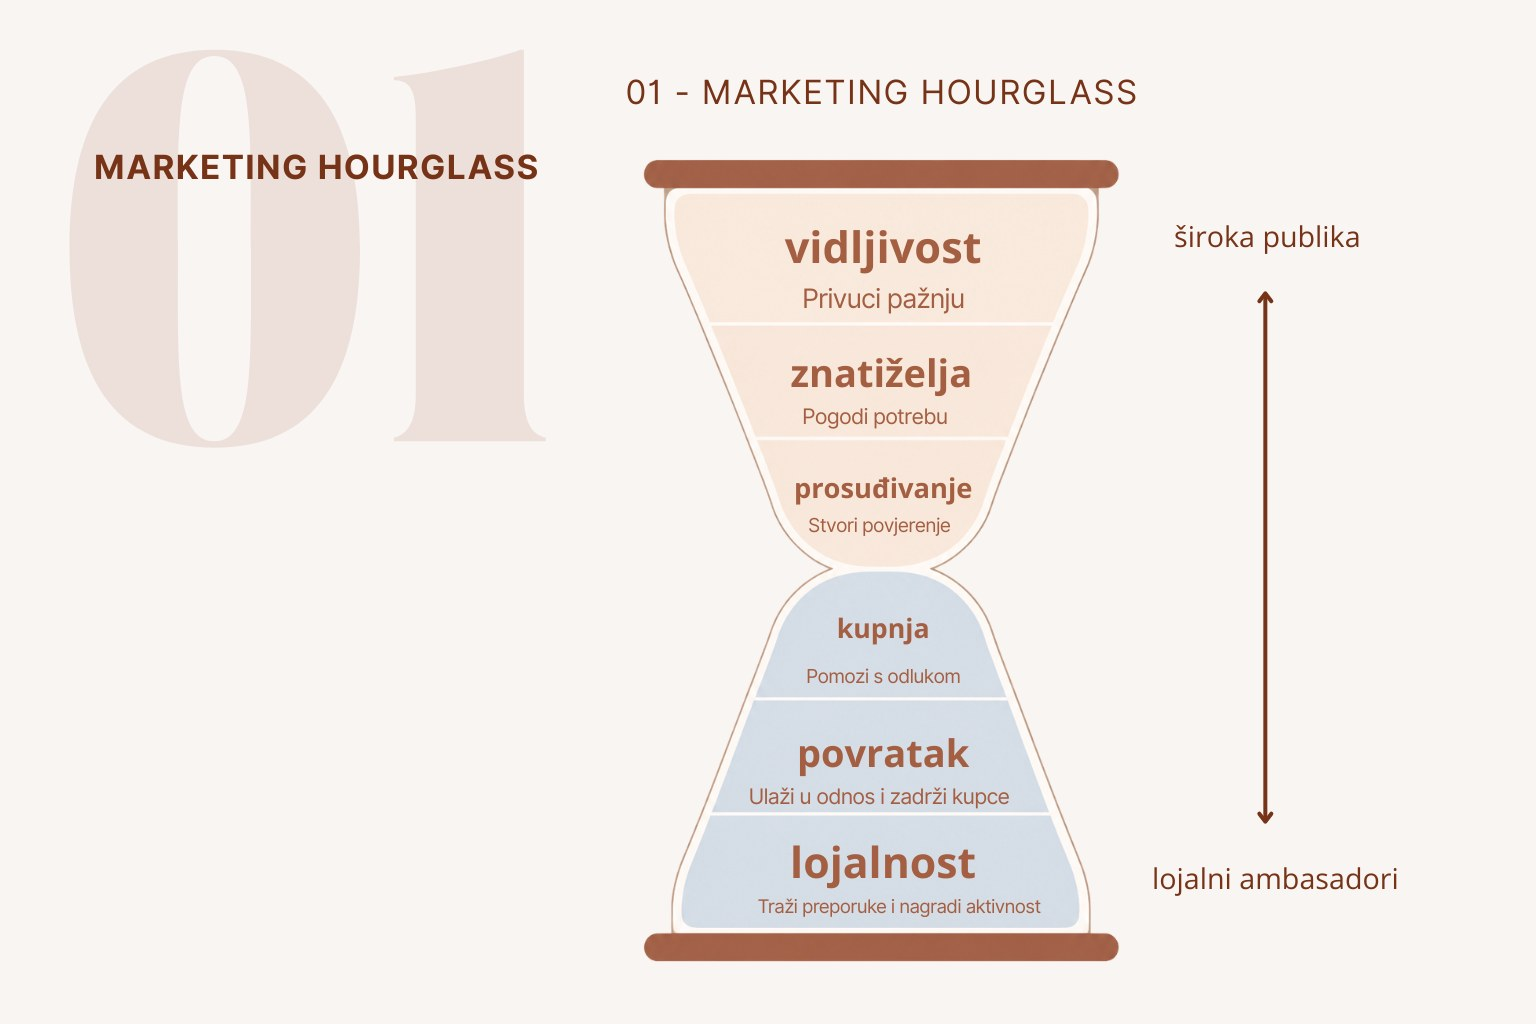
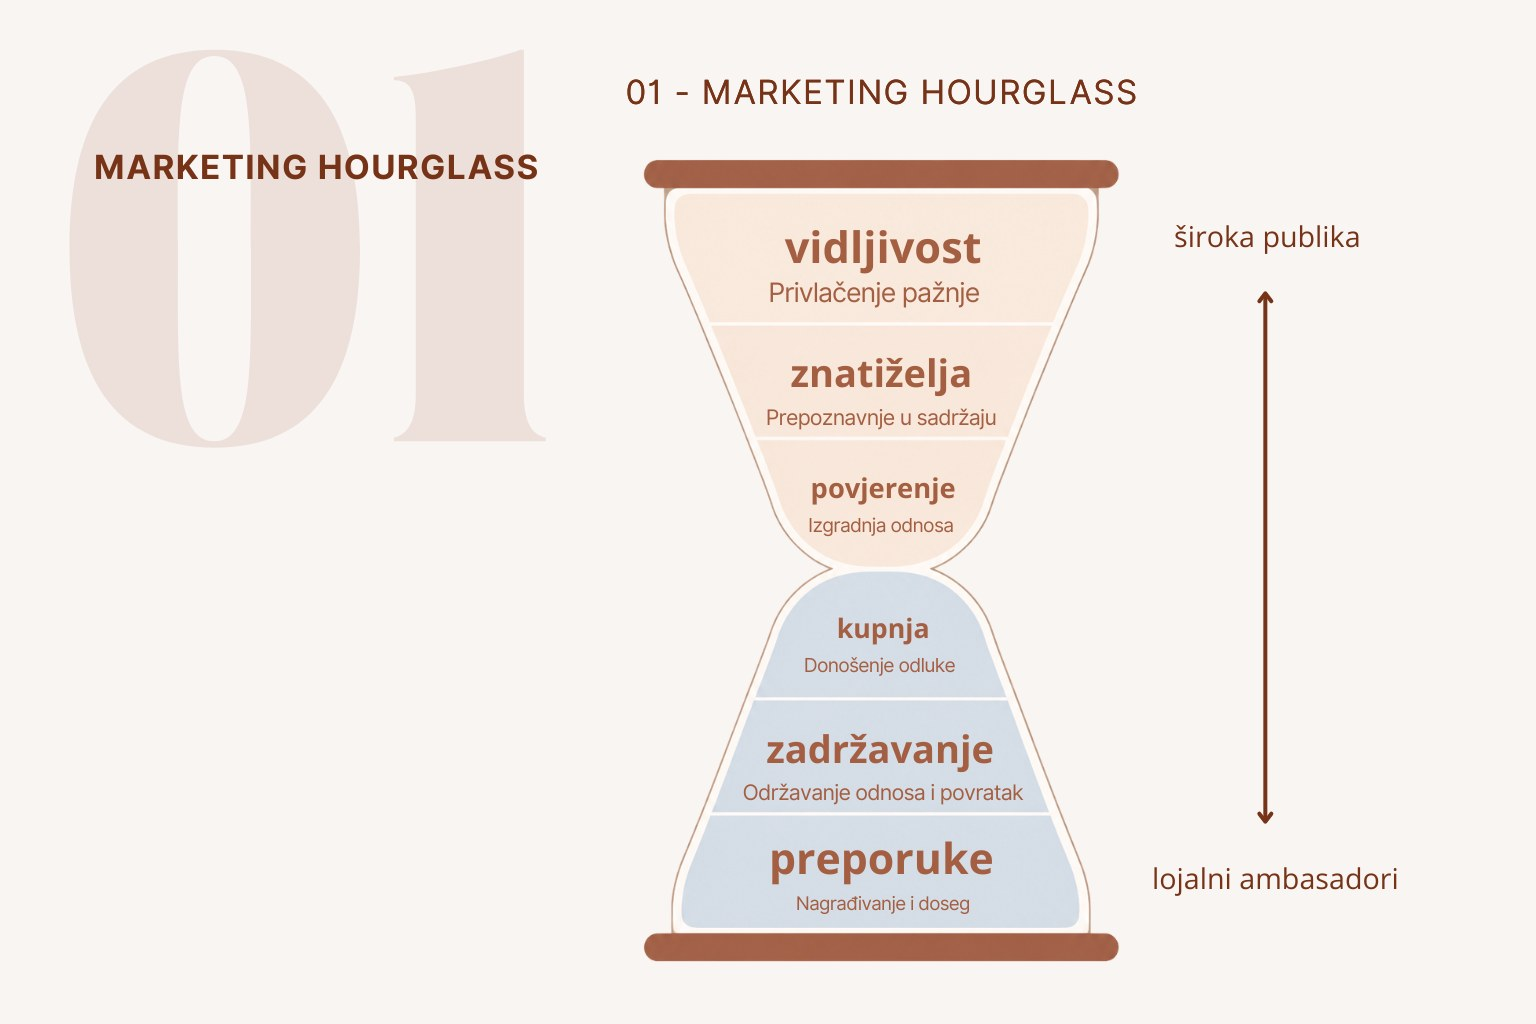
Replace practice 01 image with updated Marketing Hourglass graphic.
Use the new Croatian hourglass (zadržavanje / preporuke labels) in
kako to može izgledati u praksi.

diff --git a/newsletter-sustav/index.html b/newsletter-sustav/index.html
@@ -19,7 +19,7 @@
       href="https://fonts.googleapis.com/css2?family=Inter:wght@400;500;600&display=swap"
       rel="stylesheet"
     />
-    <link rel="stylesheet" href="../css/main.css?v=footer-social-sm" />
+    <link rel="stylesheet" href="../css/main.css?v=practice-01-mh" />
     <script>
       document.documentElement.classList.add("js");
     </script>
